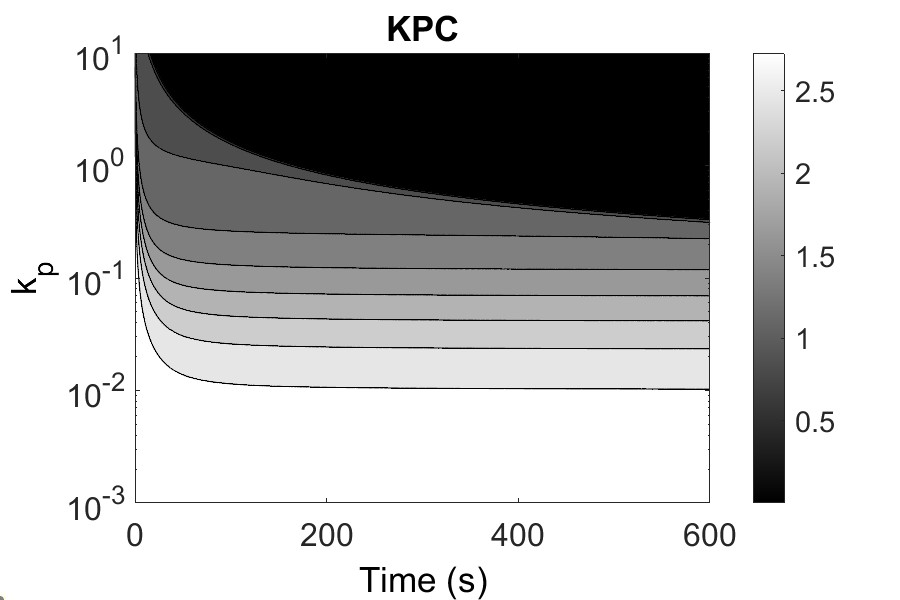
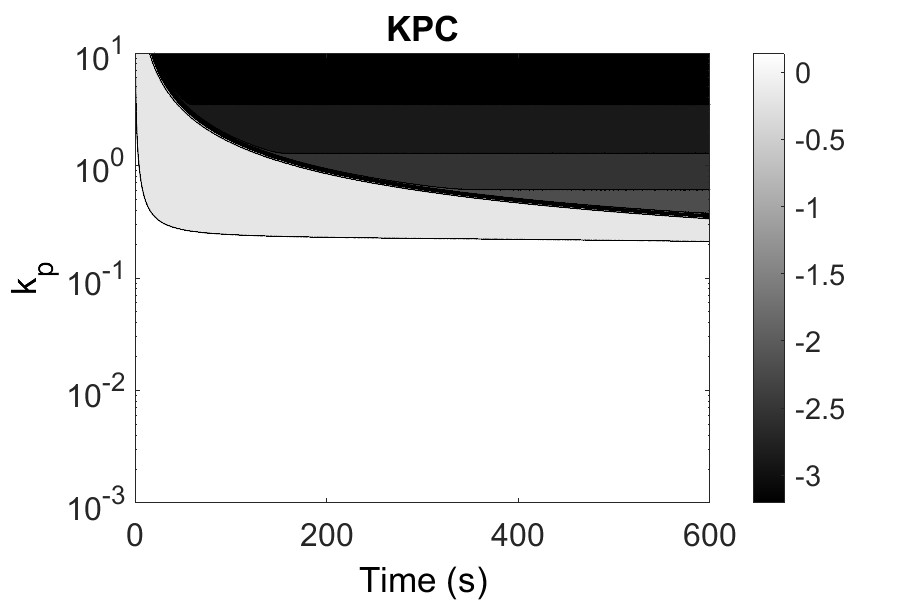
a

diff --git a/Leveraging mathematical models P2/Sensitivity/Sensitivity Analysis/KPCSensitivity.m b/Leveraging mathematical models P2/Sensitivity/Sensitivity Analysis/KPCSensitivity.m
@@ -227,7 +227,7 @@ set(gca, 'YDir', 'normal');
 hold on
 
 figure('Position', [100, 100, 600, 400]);
-contourf(tspan, kpVect, results_matrix, 10, 'LineColor', 'k');
+contourf(tspan, kpVect, results_matrix1, 10, 'LineColor', 'k');
 colormap(gray);
 colorbar;
 xlabel('Time (s)', 'FontSize', 18, 'Color', 'k', 'FontWeight', 'normal');
